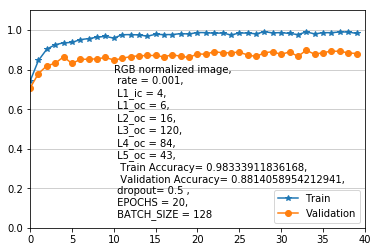
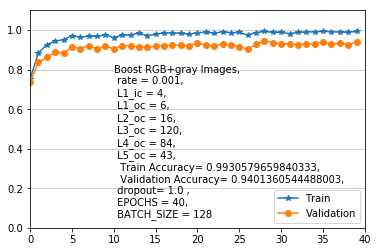
update

Changed region(s): [[0.0582, 0.1111, 0.9603, 0.3611], [0.582, 0.6389, 0.9021, 0.75], [0.4365, 0.7222, 0.4947, 0.8333]]

diff --git a/README.md b/README.md
@@ -107,7 +107,7 @@ To examine if my code performs properly, I picked one category of the traffic si
 
 #### 1. RGB image (32, 32, 3)
 
- After data augmentation in the first step, I decided to do image normalization, because it helps to reduce the bias. Moreover, I tried the dropout (to reduce the variance), it will help to suppress those weak correlation parameters.  
+ After data augmentation in the first step, I decided to do image normalization, because it helps to reduce the bias. Moreover, I tried the dropout to reduce the variance, it will help to suppress those weak correlation parameters. the dropout probability is 0.5.
 
 To simplfy my DOE (design of experiments). Here is my table:  
 
@@ -122,7 +122,8 @@ To simplfy my DOE (design of experiments). Here is my table:
 ![alt text][image7_2]
 ![alt text][image7_3]
 
-
+With this simple trials, here are my observations: 
+(1) Dataset boost shows the smaller overfitting  (the value between Training Accuracy and Validation Accuracy) among all three DoEs. The Training Accuracy reaching 99.1%. All implies the boost of the dataset is effective. However, (2)  the normalized images don't give me the best performance nor the smallest *Training Accuracy*, which is the question I have. Last, (3) Dropout can help to close the gap between Training Accuracy and Validation Accuracy, but 
 
 #### 2. Use R G B + gray (32, 32, 4) 
 
@@ -139,6 +140,8 @@ To simplfy my DOE (design of experiments). Here is my table:
 ![alt text][image8_2]
 ![alt text][image8_3]
 ![alt text][image8_4]
+
+I added the gray-level image into an image, so one individual image will have 4 channels. I would like to see if this method can boost performance. As I observed the best performance is without image Normalization, and with dropout.  
 
 for some reason, normalized RGB isn't the best option. 
 
